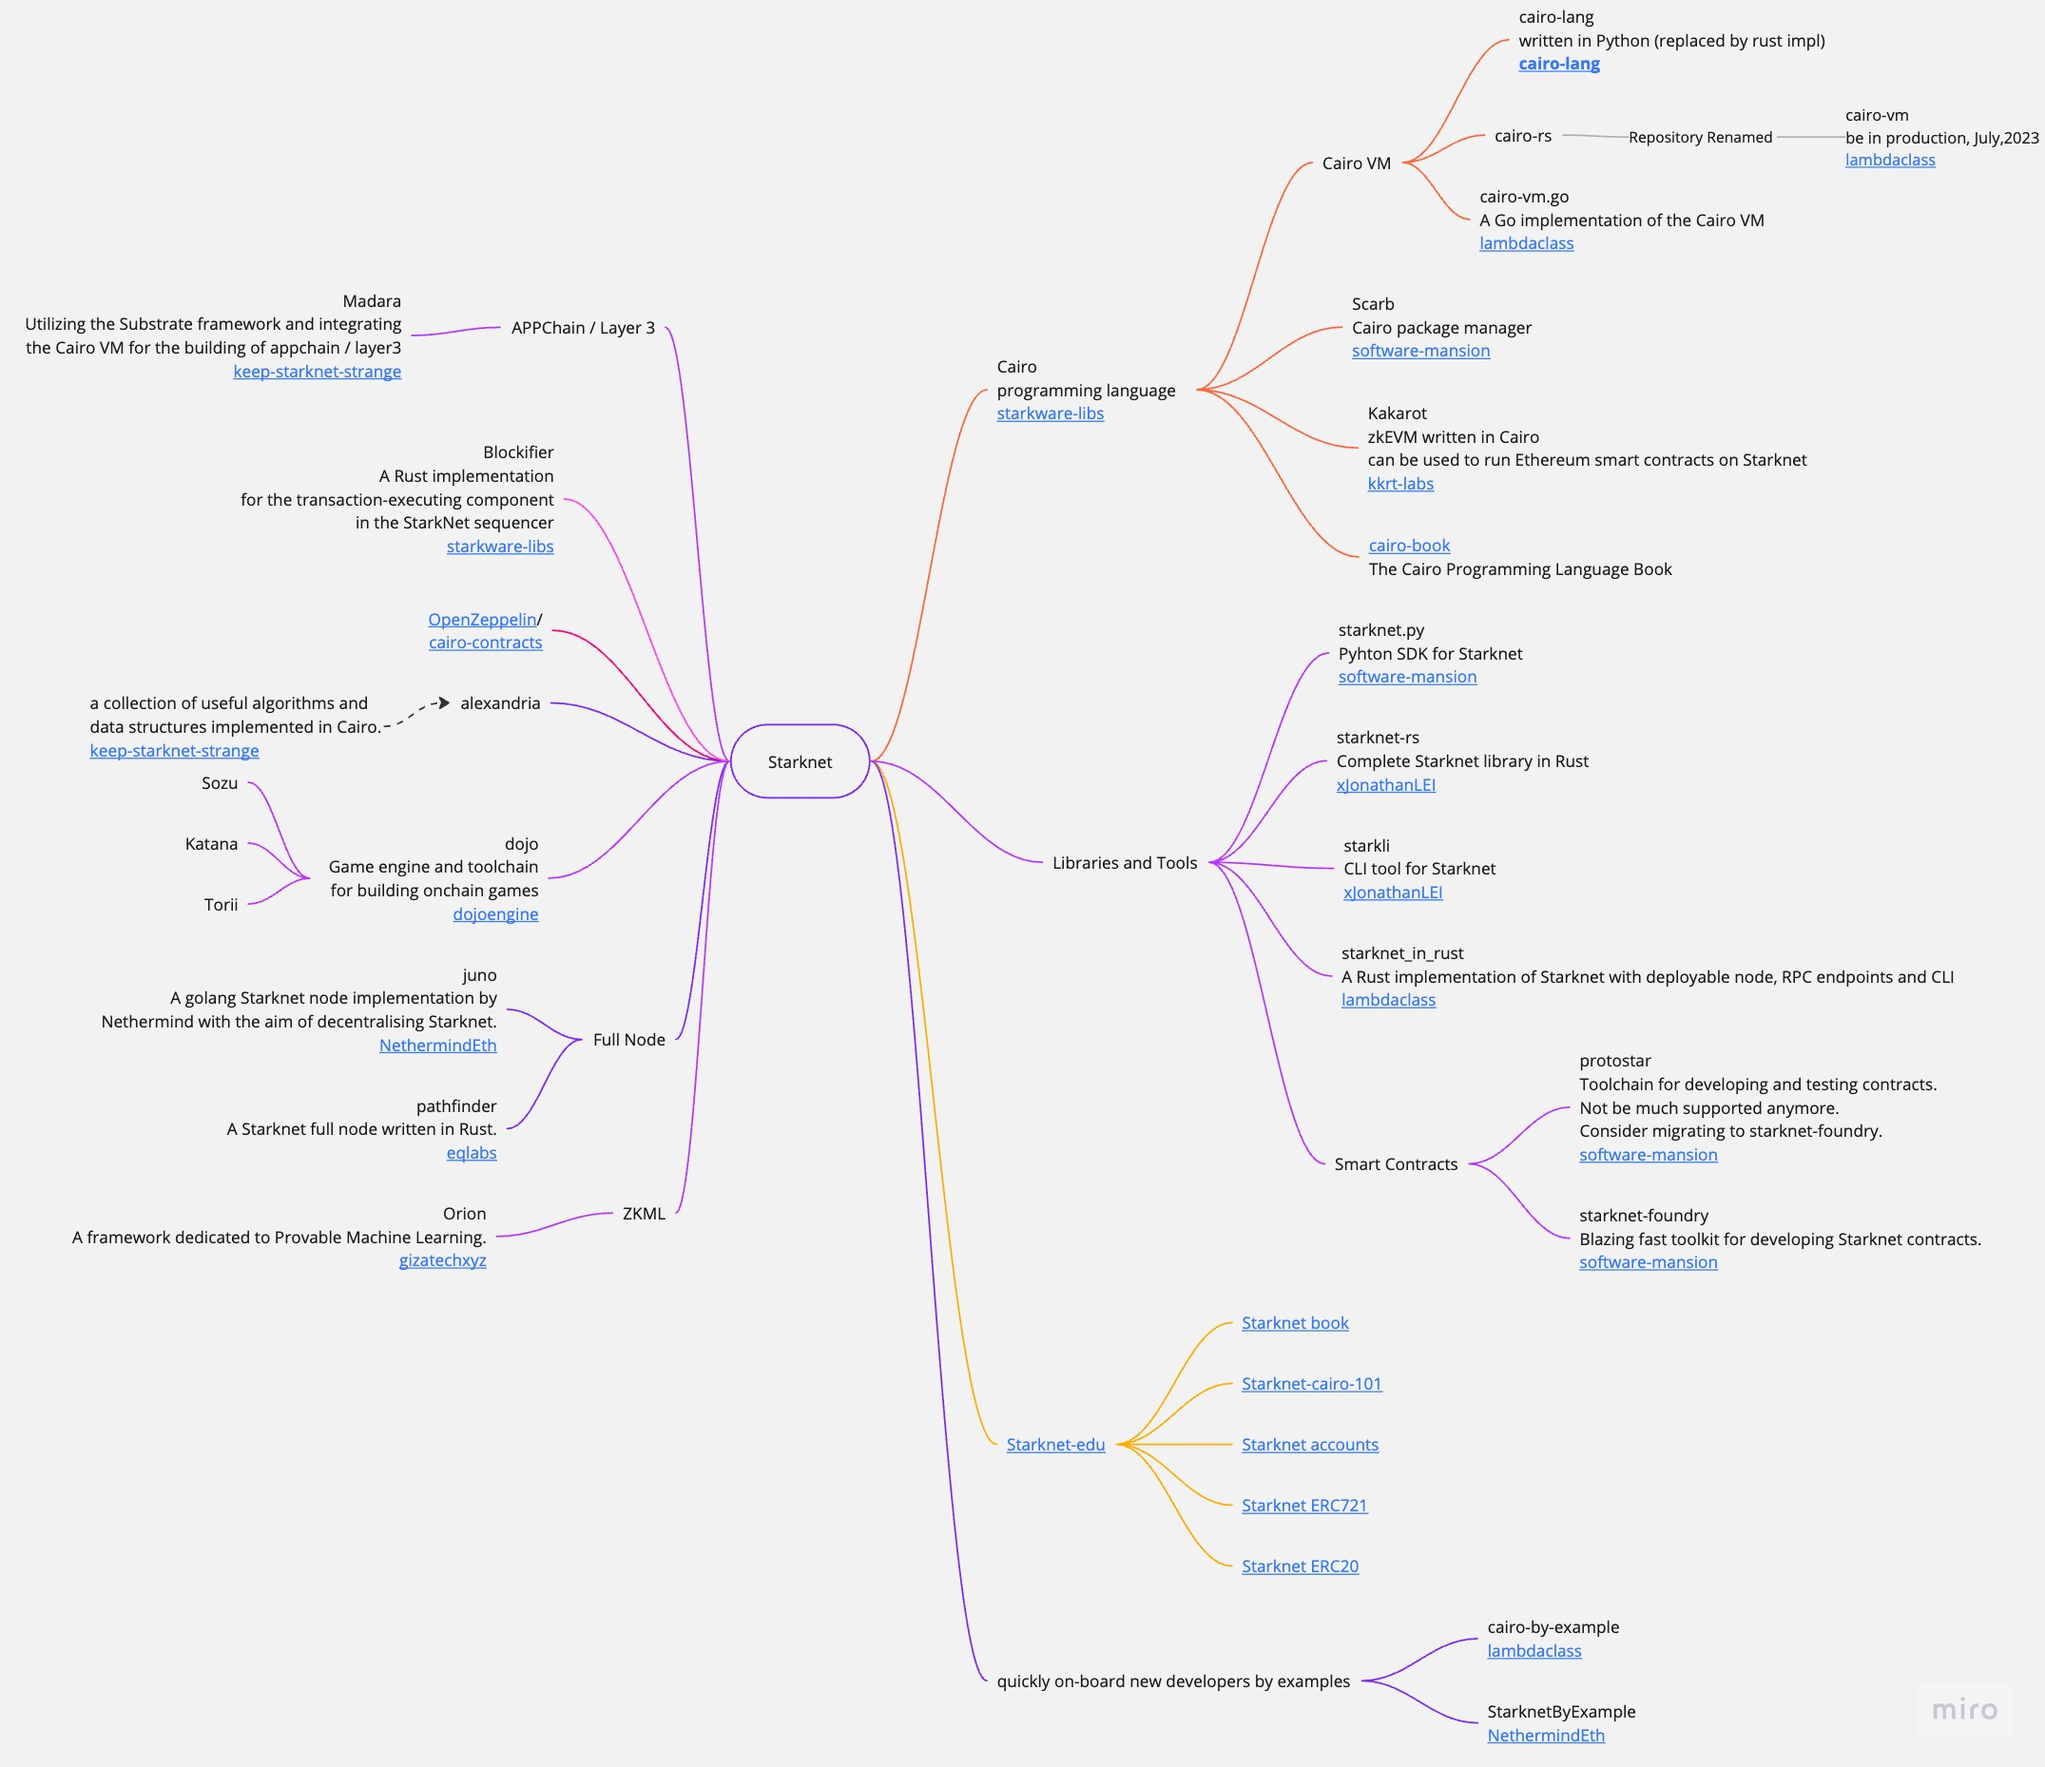
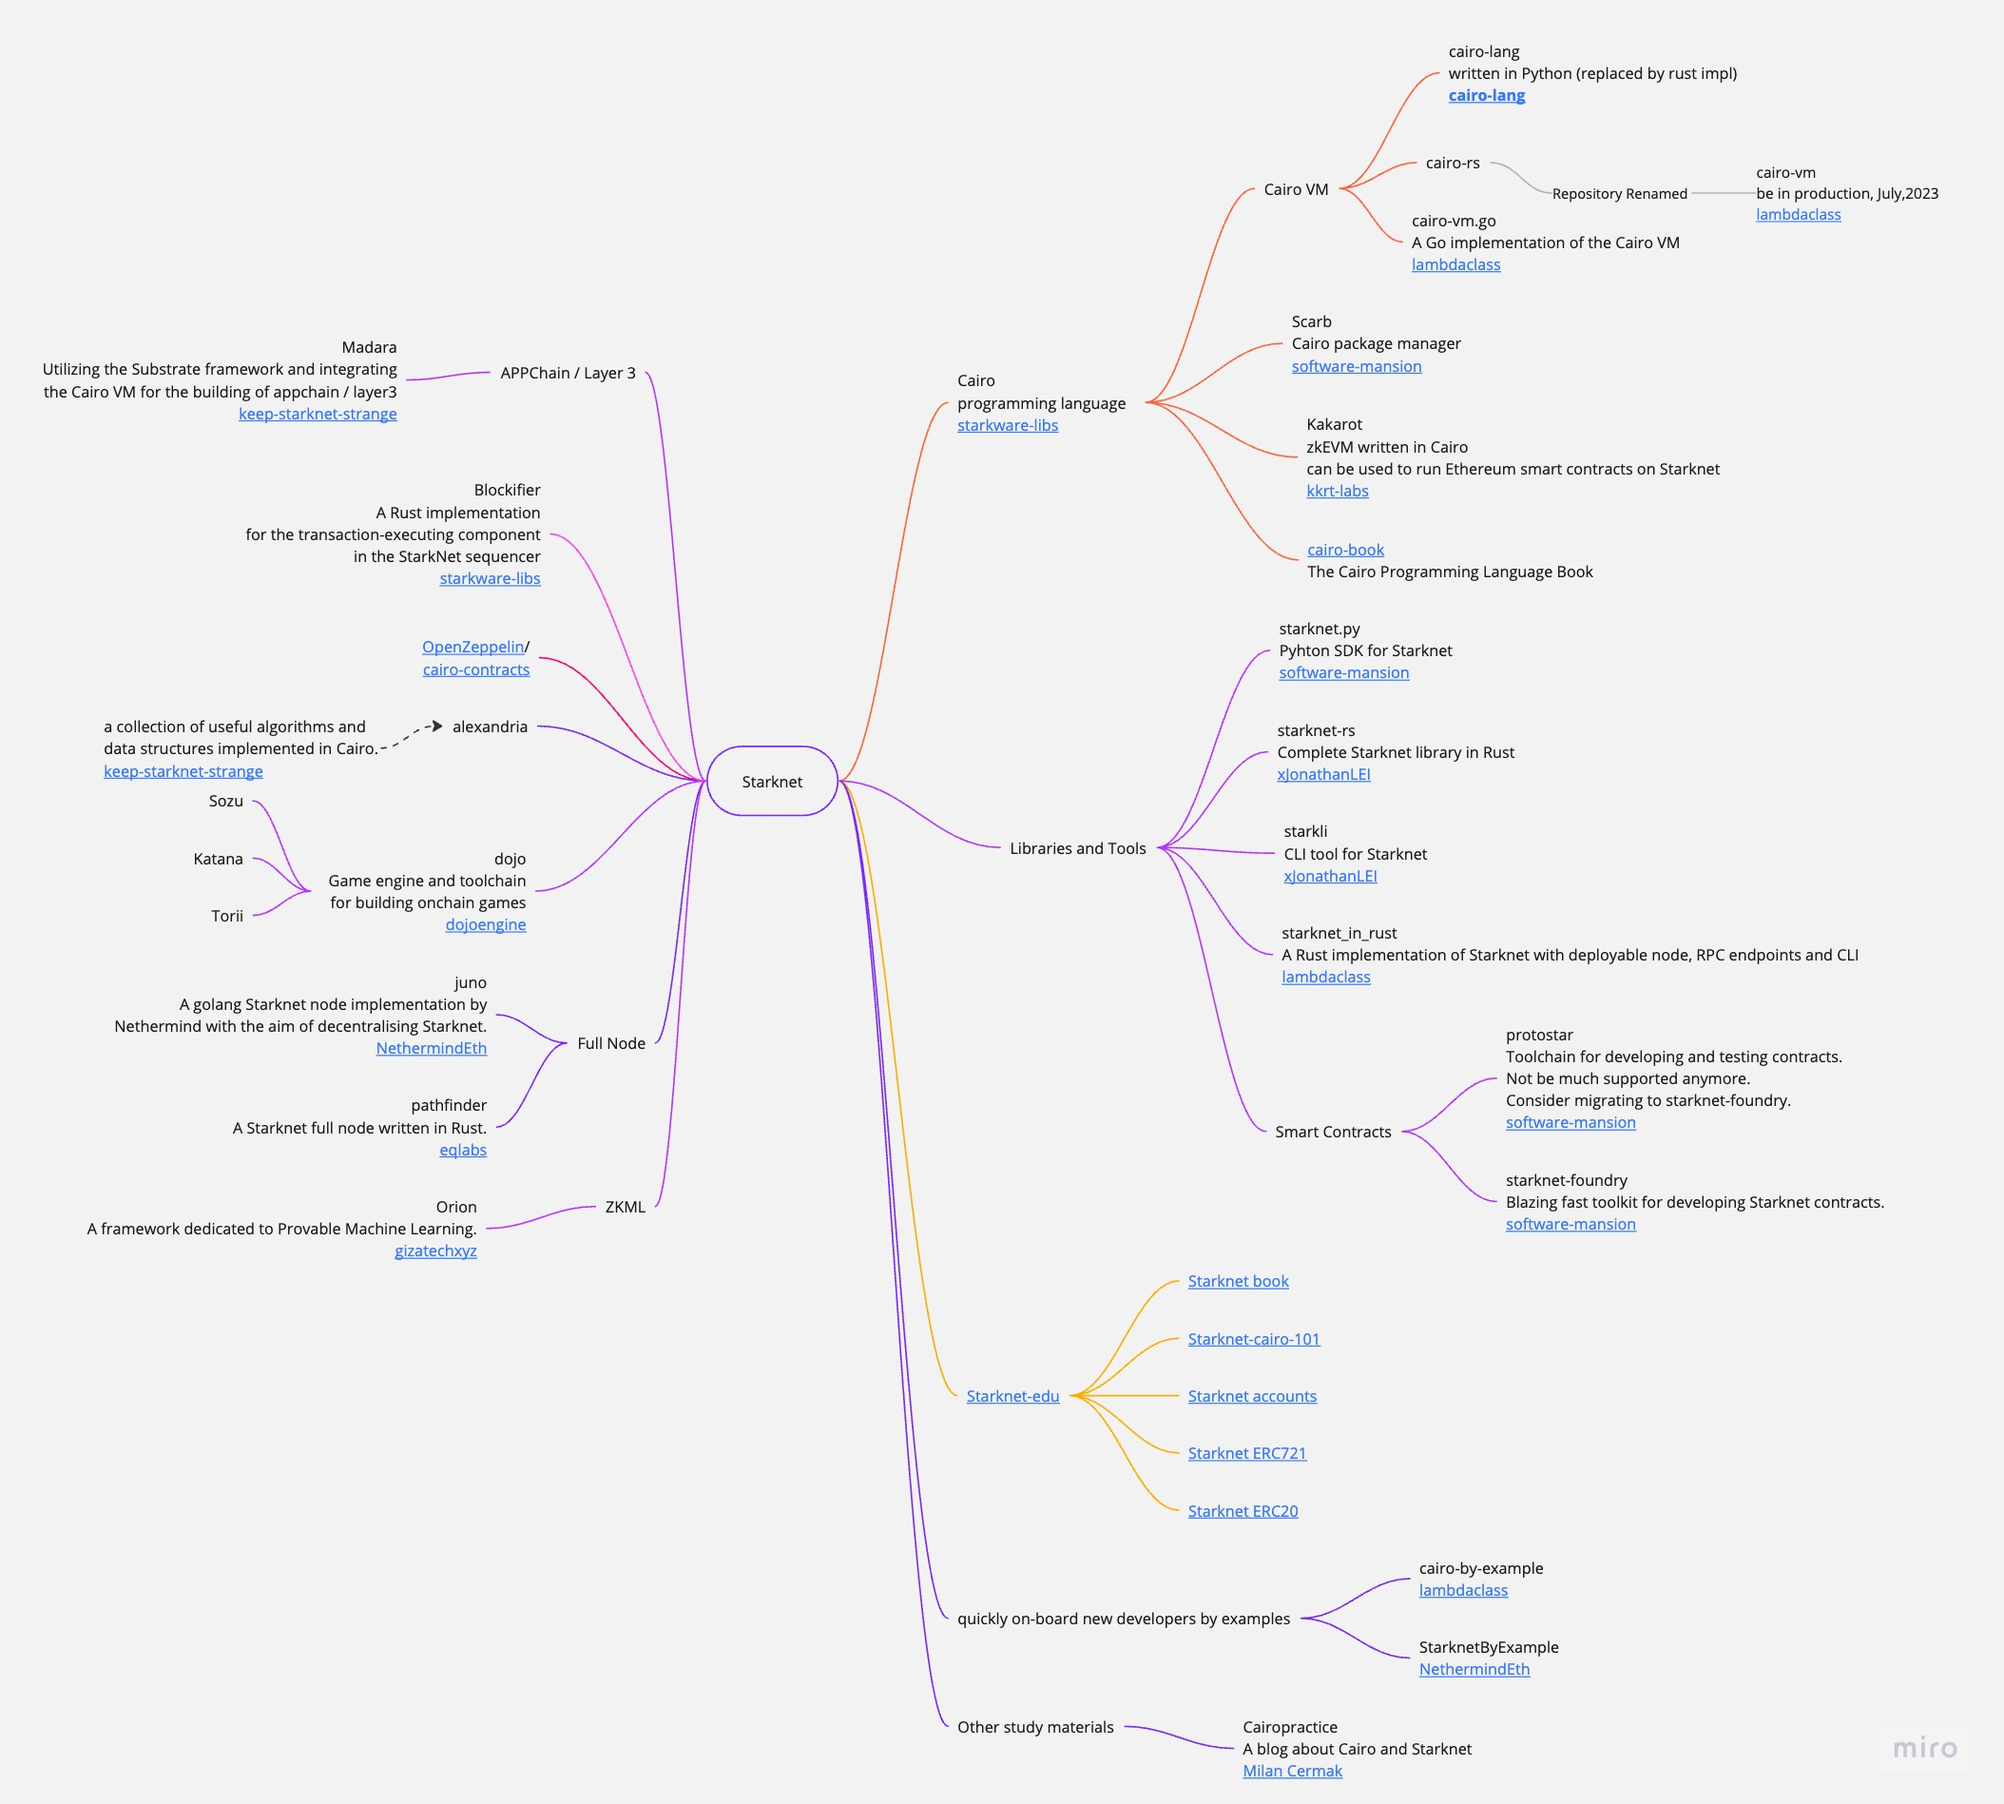
add Other study materials

diff --git a/README.md b/README.md
@@ -54,6 +54,8 @@ The mind map is organized into the following categories:
   - [StarknetByExample](#starknetbyexample)
 - [ZKML](#zkml)
   - [Orion](#orion)
+- [Other study materials](#other-study-materials)
+  - [Cairopractice](#cairopractice)
 
 ## Cairo
 
@@ -218,6 +220,14 @@ https://github.com/NethermindEth/StarknetByExample
 A framework dedicated to Provable Machine Learning. It provides essential components and a new ONNX runtime for building verifiable Machine Learning models using STARKs.
 
 https://github.com/gizatechxyz/orion
+
+## Other study materials
+
+### Cairopractice
+
+A blog about Cairo and Starknet.
+
+https://cairopractice.com/
 
 ## Contribute
 
